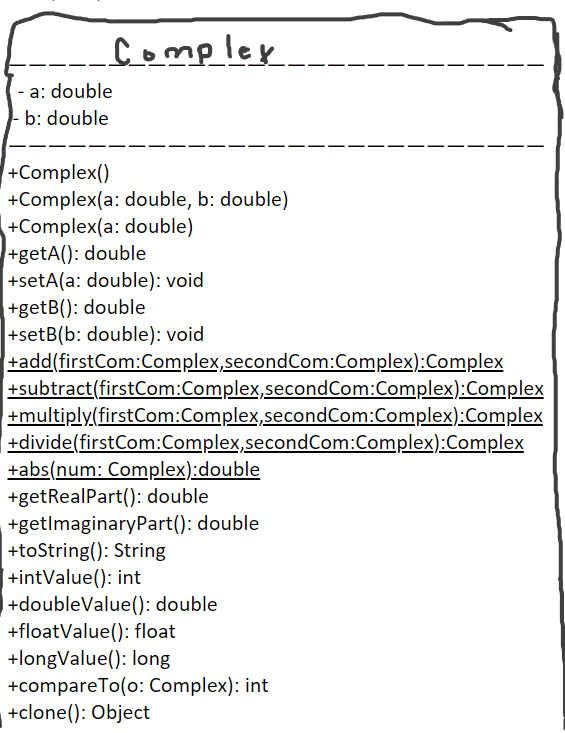
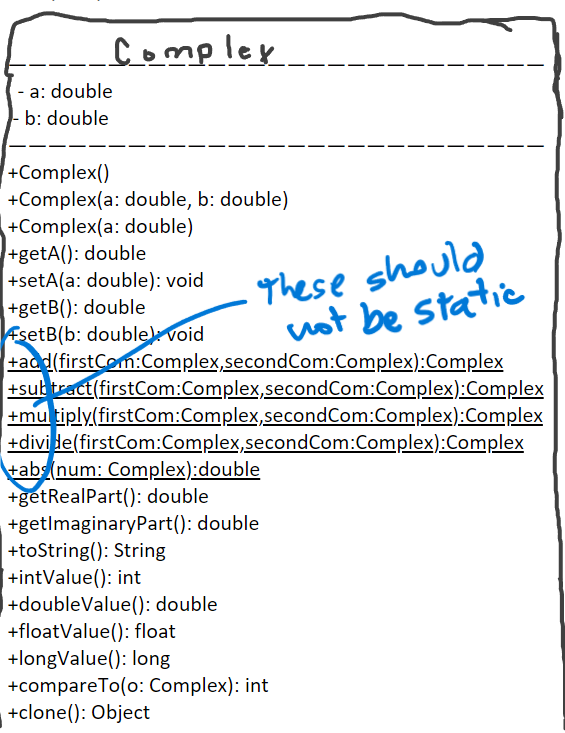
Feedback

diff --git a/prj/5/Complex.java b/prj/5/Complex.java
@@ -1,108 +1,130 @@
-public class Complex extends Number implements Cloneable, Comparable<Complex>{
-  //data fields
+public class Complex extends Number implements Cloneable, Comparable<Complex> {
+  // data fields
   private double a;
   private double b;
-  //Constructors
-  Complex(){
+
+  // Constructors
+  Complex() {
     a = 0;
     b = 0;
   }
-  Complex(double a, double b){
+
+  Complex(double a, double b) {
     this.a = a;
     this.b = b;
   }
-  Complex(double a){
+
+  Complex(double a) {
     this.a = a;
     b = 0;
   }
 
-  //getters and setters
-  public double getA(){
+  // getters and setters
+  public double getA() {
     return a;
   }
-  public void setA(double a){
+
+  public void setA(double a) {
     this.a = a;
   }
-  public double getB(){
+
+  public double getB() {
     return b;
   }
-  public void setB(double b){
+
+  public void setB(double b) {
     this.b = b;
   }
-  //adds the complex numbers
-  public static Complex add(Complex firstCom, Complex secondCom){
-    double first = firstCom.getA() + secondCom.getA(); 
-    double second = firstCom.getB() + secondCom.getB();
-    return new Complex(first,second);   
+
+  // adds the complex numbers
+  public Complex add(Complex secondCom) {
+    double first = getA() + secondCom.getA();
+    double second = getB() + secondCom.getB();
+    return new Complex(first, second);
   }
-  //subtracts the complex numbers
-  public static Complex subtract(Complex firstCom, Complex secondCom){
-    double first = firstCom.getA() - secondCom.getA();
-    double second = firstCom.getB() - secondCom.getB();
-    return new Complex(first,second);
+
+  // subtracts the complex numbers
+  public Complex subtract(Complex secondCom) {
+    double first = getA() - secondCom.getA();
+    double second = getB() - secondCom.getB();
+    return new Complex(first, second);
   }
-  //multiplies the complex numbers
-  public static Complex multiply(Complex firstCom, Complex secondCom){
-    double first = (firstCom.getA()*secondCom.getA())-(firstCom.getB()*secondCom.getB());
-    double second = (firstCom.getB()*secondCom.getA())+(firstCom.getA()*secondCom.getB());
-    return new Complex(first,second);
+
+  // multiplies the complex numbers
+  public Complex multiply(Complex secondCom) {
+    double first = (getA() * secondCom.getA()) - (getB() * secondCom.getB());
+    double second = (getB() * secondCom.getA()) + (getA() * secondCom.getB());
+    return new Complex(first, second);
   }
-  //divides the complex numbers
-  public static Complex divide(Complex firstCom, Complex secondCom){
-    double first = ((firstCom.getA()*secondCom.getA()+firstCom.getB()*secondCom.getB())/(secondCom.getA()*secondCom.getA()+secondCom.getB()*secondCom.getB()));
-    double second = ((firstCom.getB()*secondCom.getA()-firstCom.getA()*secondCom.getB())/(secondCom.getA()*secondCom.getA()+secondCom.getB()*secondCom.getB()));
-    return new Complex(first,second);
+
+  // divides the complex numbers
+  public Complex divide(Complex secondCom) {
+    double first = ((getA() * secondCom.getA() + getB() * secondCom.getB())
+        / (getA() * secondCom.getA() + secondCom.getB() * secondCom.getB()));
+    double second = ((getB() * secondCom.getA() - getA() * secondCom.getB())
+        / (secondCom.getA() * secondCom.getA() + secondCom.getB() * secondCom.getB()));
+    return new Complex(first, second);
   }
-  //gets the absolute value of a complex number
-  public static double abs(Complex num){
-    return Math.sqrt(num.getA()*num.getA()+num.getB()*num.getB());
+
+  // gets the absolute value of a complex number
+  public double abs() {
+    return Math.sqrt(getA() * getA() + getB() * getB());
   }
-  //return the real part of a complex number
+
+  // return the real part of a complex number
   public double getRealPart() {
     return a;
   }
-  //return the imaginary part of a complex number
-  public double getImaginaryPart(){
+
+  // return the imaginary part of a complex number
+  public double getImaginaryPart() {
     return b;
   }
-  //turns it into string
+
+  // turns it into string
   @Override
-  public String toString(){
-    return (b==0? "" + a : a + " + " + b + "i"); //returns string, if b = 0 returns just "a"
+  public String toString() {
+    return (b == 0 ? "" + a : a + " + " + b + "i"); // returns string, if b = 0 returns just "a"
   }
-  //implements these because they are abstract in parent class, changes abs value to different types
+
+  // implements these because they are abstract in parent class, changes abs value
+  // to different types
   @Override
-  public int intValue(){
-    return (int) Complex.abs(new Complex(getA(),getB()));
+  public int intValue() {
+    return (int) Complex.abs(new Complex(getA(), getB()));
   }
+
   @Override
-  public double doubleValue(){
-    return (double) Complex.abs(new Complex(getA(),getB()));
+  public double doubleValue() {
+    return (double) Complex.abs(new Complex(getA(), getB()));
   }
+
   @Override
-  public  float floatValue(){
-    return (float) Complex.abs(new Complex(getA(),getB()));
+  public float floatValue() {
+    return (float) Complex.abs(new Complex(getA(), getB()));
   }
+
   @Override
-  public long longValue(){
-    return (long) Complex.abs(new Complex(getA(),getB()));
+  public long longValue() {
+    return (long) Complex.abs(new Complex(getA(), getB()));
   }
-  //overrides compareTo method from Comparable and compares the abs value
+
+  // overrides compareTo method from Comparable and compares the abs value
   @Override
-  public int compareTo(Complex o){
-    if (Complex.abs(new Complex(getA(),getB())) > Complex.abs(o))
+  public int compareTo(Complex o) {
+    if (abs() > o.abs())
       return 1;
-    else if (Complex.abs(new Complex(getA(),getB())) < Complex.abs(o))
+    else if (abs() < o.abs())
       return -1;
-    else 
+    else
       return 0;
   }
+
   @Override
-  public Object clone(){
-    try{
+  public Object clone() {
+    try {
       return super.clone();
-    }
-    catch(CloneNotSupportedException ex){
+    } catch (CloneNotSupportedException ex) {
       return null;
     }
   }

diff --git a/prj/5/Project5.java b/prj/5/Project5.java
@@ -1,33 +1,34 @@
 import java.util.Scanner;
+
 public class Project5 {
-  public static void main(String[] args) {
-    //gets numbers from user
-    Scanner input = new Scanner(System.in);
-    System.out.print("Enter the first complex number: ");
-    double a = input.nextDouble();
-    double b = input.nextDouble();
-    //creates instance of Complex class using input
-    Complex first = new Complex(a,b);
-    //gets numbers for second complex number
-    System.out.print("Enter the second complex number: ");
-    double secondA = input.nextDouble();
-    double secondB = input.nextDouble();
-    //creates a second instance
-    Complex second = new Complex(secondA,secondB);
-    input.close();
-    //displays the results of adding them together
-    System.out.println("(" + first.toString() + ") + (" + second.toString() + ") = " +
-       (Complex.add(first,second)).toString());
-    //displays the results of subtracting them
-    System.out.println("(" + first.toString() + ") - (" + second.toString() + ") = " +
-       (Complex.subtract(first,second)).toString());
-    //displays the results of multiplying them together
-    System.out.println("(" + first.toString() + ") * (" + second.toString() + ") = " +
-       (Complex.multiply(first,second)).toString());
-    //displays the results of dividing them
-    System.out.println("(" + first.toString() + ") / (" + second.toString() + ") = " +
-       (Complex.divide(first,second)).toString());
-    //displays the results of the absolute value of the first complex number
-    System.out.println("|" + first.toString() + "| = " + Complex.abs(first));
-  } 
+   public static void main(String[] args) {
+      // gets numbers from user
+      Scanner input = new Scanner(System.in);
+      System.out.print("Enter the first complex number: ");
+      double a = input.nextDouble();
+      double b = input.nextDouble();
+      // creates instance of Complex class using input
+      Complex first = new Complex(a, b);
+      // gets numbers for second complex number
+      System.out.print("Enter the second complex number: ");
+      double secondA = input.nextDouble();
+      double secondB = input.nextDouble();
+      // creates a second instance
+      Complex second = new Complex(secondA, secondB);
+      input.close();
+      // displays the results of adding them together
+      System.out.println("(" + first.toString() + ") + (" + second.toString() + ") = " +
+            (first.add(second)).toString());
+      // displays the results of subtracting them
+      System.out.println("(" + first.toString() + ") - (" + second.toString() + ") = " +
+            (first.subtract(second)).toString());
+      // displays the results of multiplying them together
+      System.out.println("(" + first.toString() + ") * (" + second.toString() + ") = " +
+            (first.multiply(second)).toString());
+      // displays the results of dividing them
+      System.out.println("(" + first.toString() + ") / (" + second.toString() + ") = " +
+            (first.divide(second)).toString());
+      // displays the results of the absolute value of the first complex number
+      System.out.println("|" + first.toString() + "| = " + first.abs());
+   }
 }
